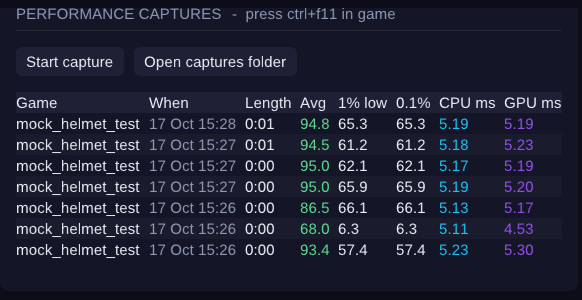
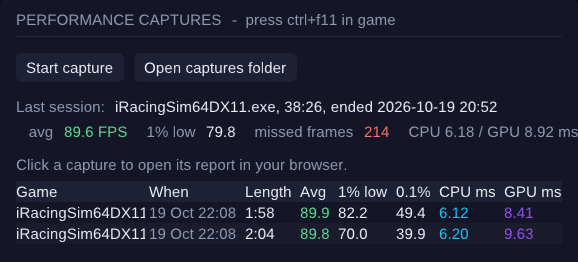
NextLevelXR page and blog: update for 1.4.3
ShenronZero's helmets, Creator Mode for OBS, the smoother FPS panel, lap-long
Auto SS, capture reports, Certum signing and the tested games list. New 1.4.3
screenshots.

Claude-Session: https://claude.ai/code/session_01QvJocGPpfhh6eVveYSqqi1

Changed region(s): [[0.0311, 0.1832, 1.0, 0.916], [0.0311, 0.0305, 0.6851, 0.1221], [0.0311, 0.1832, 0.218, 0.3664]]

diff --git a/nextlevelxr-mod.html b/nextlevelxr-mod.html
@@ -4,20 +4,20 @@
 <script defer src="/cookie-consent.js"></script>
 <meta charset="utf-8">
 <meta name="viewport" content="width=device-width, initial-scale=1">
-<title>NextLevelXR: Standalone OpenXR FOV Crop &amp; Helmet Mod for VR Sim Racing | Next Level Sim Gaming</title>
-<meta name="description" content="NextLevelXR crops the parts of the VR image you never look at and puts the saved GPU power back into sharpness. FOV crop, Auto SS, helmet view, 3D Boost and an FPS panel, no OpenXR Toolkit needed.">
+<title>NextLevelXR 1.4.3: Standalone OpenXR FOV Crop, Helmets &amp; Creator Mode for VR | Next Level Sim Gaming</title>
+<meta name="description" content="NextLevelXR 1.4.3 crops the parts of the VR image you never look at and puts the saved GPU power back into sharpness. ShenronZero's helmets, Creator Mode for OBS, Auto SS and an FPS panel, fully signed, no OpenXR Toolkit needed.">
 <meta name="robots" content="index, follow, max-image-preview:large">
 <link rel="canonical" href="https://nextlevelsimgaming.co.uk/nextlevelxr-mod.html">
 <meta property="og:type" content="article">
 <meta property="og:site_name" content="Next Level Sim Gaming">
 <meta property="og:title" content="NextLevelXR: a standalone OpenXR mod for sharper, faster sim racing in VR">
-<meta property="og:description" content="NextLevelXR crops the parts of the VR image you never look at and puts the saved GPU power back into sharpness. FOV crop, Auto SS, helmet view, 3D Boost and an FPS panel, no OpenXR Toolkit needed.">
+<meta property="og:description" content="NextLevelXR 1.4.3 crops the parts of the VR image you never look at and puts the saved GPU power back into sharpness. ShenronZero's helmets, Creator Mode for OBS, Auto SS and an FPS panel, fully signed, no OpenXR Toolkit needed.">
 <meta property="og:image" content="https://nextlevelsimgaming.co.uk/nextlevelxr-control-app.jpg">
 <meta property="og:url" content="https://nextlevelsimgaming.co.uk/nextlevelxr-mod.html">
 <meta name="twitter:card" content="summary_large_image">
 <meta name="twitter:site" content="@nextlevelsim">
 <meta name="twitter:title" content="NextLevelXR: a standalone OpenXR mod for sharper, faster sim racing in VR">
-<meta name="twitter:description" content="NextLevelXR crops the parts of the VR image you never look at and puts the saved GPU power back into sharpness. FOV crop, Auto SS, helmet view, 3D Boost and an FPS panel, no OpenXR Toolkit needed.">
+<meta name="twitter:description" content="NextLevelXR 1.4.3 crops the parts of the VR image you never look at and puts the saved GPU power back into sharpness. ShenronZero's helmets, Creator Mode for OBS, Auto SS and an FPS panel, fully signed, no OpenXR Toolkit needed.">
 <meta name="twitter:image" content="https://nextlevelsimgaming.co.uk/nextlevelxr-control-app.jpg">
 <link rel="preconnect" href="https://fonts.googleapis.com">
 <link rel="preconnect" href="https://fonts.gstatic.com" crossorigin>
@@ -37,10 +37,10 @@
   {
    "@type": "BlogPosting",
    "headline": "NextLevelXR: a standalone OpenXR mod for sharper, faster sim racing in VR",
-   "description": "NextLevelXR crops the parts of the VR image you never look at and puts the saved GPU power back into sharpness. FOV crop, Auto SS, helmet view, 3D Boost and an FPS panel, no OpenXR Toolkit needed.",
+   "description": "NextLevelXR 1.4.3 crops the parts of the VR image you never look at and puts the saved GPU power back into sharpness. ShenronZero's helmets, Creator Mode for OBS, Auto SS and an FPS panel, fully signed, no OpenXR Toolkit needed.",
    "url": "https://nextlevelsimgaming.co.uk/nextlevelxr-mod.html",
    "datePublished": "2026-10-18",
-   "dateModified": "2026-10-18",
+   "dateModified": "2026-10-20",
    "inLanguage": "en-GB",
    "image": "https://nextlevelsimgaming.co.uk/nextlevelxr-control-app.jpg",
    "author": {"@type": "Person", "name": "Gary Bowman", "url": "https://nextlevelsimgaming.co.uk/"},
@@ -208,16 +208,27 @@ table.spec td{color:var(--paper-dim)}
 
 <main class="wrap">
 <p class="crumb"><a href="/index.html">Home</a> / <a href="/blog.html">Blog</a> / NextLevelXR</p>
-<p class="newbadge">PREVIEW</p><p class="badge">NextLevelXR 1.4.1 · in testing</p>
+<p class="newbadge">NEW IN 1.4.3</p><p class="badge">NextLevelXR 1.4.3 · fully signed</p>
 <h1>NextLevelXR: the VR mod that spends your GPU where you actually look</h1>
-<p class="updated">18 October 2026 · Gary Bowman</p>
-<p class="standfirst">A standalone OpenXR mod from Next Level Sim Gaming and Elhydro. It trims the parts of the VR image you never look at in a cockpit and puts the saved GPU power back into a sharper picture. It doesn't use the OpenXR Toolkit at all, and <a href="#no-openxr-toolkit">replaces it</a>.</p>
+<p class="updated">18 October 2026 · updated 20 October 2026 for 1.4.3 · Gary Bowman</p>
+<p class="standfirst">A standalone OpenXR mod from Next Level Sim Gaming and Elhydro, now with ShenronZero's helmet library. It trims the parts of the VR image you never look at in a cockpit and puts the saved GPU power back into a sharper picture. It doesn't use the OpenXR Toolkit at all, and <a href="#no-openxr-toolkit">replaces it</a>.</p>
 
-<div class="note"><strong>This is a preview post.</strong> NextLevelXR is being tested by the team right now. Downloads, a video and real in-game numbers will follow here when it's ready. Join the <a href="https://discord.gg/gw6xXkWtKa">Discord</a> to hear first.</div>
+<div class="box" id="whats-new">
+<h3>What's new in 1.4.3</h3>
+<ul>
+<li><strong>ShenronZero's helmets:</strong> ten real racing helmets, from open visor to Formula 1, with linings, visor tints, wear, glare, decals and scene lighting. <a href="#helmets">More below</a>.</li>
+<li><strong>Creator Mode for OBS:</strong> sends exactly what you see in the headset to OBS, with the whole helmet and the FPS panel. No mirror window to capture. <a href="#creator-mode">More below</a>.</li>
+<li><strong>A locked 90 with the FPS panel on:</strong> the panel and the settings checks now run off the game's render thread, so they cost the game nothing.</li>
+<li><strong>A better FPS panel:</strong> average FPS and 1% low, compact, standard and full layouts, and more positions.</li>
+<li><strong>Auto SS over a full lap,</strong> and an HTML report for every capture.</li>
+<li><strong>Fully digitally signed with Certum:</strong> the installer, the uninstaller, the mod, the app, the helmet module and every helper.</li>
+</ul>
+<p>Tested by the team in iRacing, Le Mans Ultimate, F1 25, Assetto Corsa EVO, Assetto Corsa, Automobilista 2 and ATS / ETS2. The signed installer comes to the <a href="https://discord.gg/gw6xXkWtKa">Discord</a>'s #downloads channel.</p>
+</div>
 
 <figure class="fig hero">
-<img src="/nextlevelxr-control-app.jpg" width="1272" height="826" alt="NextLevelXR Control app showing the FOV crop sliders, a preview of both eyes and the render size result for a Pimax Dream Air SE" fetchpriority="high" decoding="async">
-<figcaption>NextLevelXR Control: set the crop, see both eyes to scale and the render size it saves.</figcaption>
+<img src="/nextlevelxr-control-app.jpg" width="1272" height="826" alt="NextLevelXR Control 1.4.3 showing the FOV crop settings and the helmet and visor preview for a Pimax Dream Air SE" fetchpriority="high" decoding="async">
+<figcaption>NextLevelXR Control 1.4.3: the crop on the left, and a preview of your helmet and visor on the right.</figcaption>
 </figure>
 
 <div class="box" id="no-openxr-toolkit">
@@ -227,8 +238,8 @@ table.spec td{color:var(--paper-dim)}
 <li><strong>FOV crop:</strong> every edge set on its own, both eyes always identical, plus visor categories by car type and per-edge margins.</li>
 <li><strong>Resolution and supersampling:</strong> the render size is cut to match the crop, sharpness is shown as "centre sharpness", and Auto SS finds what your GPU can hold.</li>
 <li><strong>Sharpening:</strong> Pop adds adaptive sharpening and mid-tone clarity, without halos.</li>
-<li><strong>FPS overlay:</strong> FPS, CPU and GPU frame times in the headset, plus CSV captures.</li>
-<li><strong>New, not in the Toolkit:</strong> a helmet view with real per-eye depth, 3D Boost, and a Windows app to set it all per game.</li>
+<li><strong>FPS panel:</strong> FPS, average FPS, 1% low and CPU and GPU frame times in the headset, plus captures with a report.</li>
+<li><strong>New, not in the Toolkit:</strong> ShenronZero's helmets, Creator Mode for OBS, 3D Boost, and a Windows app to set it all per game.</li>
 </ul>
 <p>NextLevelXR doesn't do upscaling (NIS / FSR), foveated rendering or hand tracking. If you rely on one of those, tell us on the <a href="https://discord.gg/gw6xXkWtKa">Discord</a>. Whatever you use, run only one FOV-cropping tool at a time, or the image gets cropped twice.</p>
 </div>
@@ -244,32 +255,55 @@ table.spec td{color:var(--paper-dim)}
 <li><strong>It shrinks the render size to match.</strong> The game is asked for a smaller image, worked out in the same flat projection it draws, so the frame really gets cheaper rather than just being masked.</li>
 <li><strong>It puts the savings back into sharpness.</strong> Supersampling raises the resolution of what's left. Because the crop keeps the pixels in the middle of your view exactly as dense as native, sharpness is shown as simple "centre sharpness": 0% is native, +10% is sharper.</li>
 </ol>
-<p>On a Pimax Dream Air SE with its example crop, the game renders about 46% fewer pixels before supersampling. With Auto supersampling bringing sharpness back to native, it's still about a third fewer pixels than the headset's native picture. Those are calculator figures; in-game results are coming once testing finishes.</p>
+<p>On a Pimax Dream Air SE with its example crop, the game renders about 47% fewer pixels before supersampling. With supersampling bringing the centre 9% sharper than native, it's still 36% fewer pixels than the headset's native picture. One racer on the Discord saw his GPU load drop from 95–100% to 50–60% after cropping.</p>
 
 <h2>Crop by the car you drive</h2>
-<p>An F1 car and a rally car don't need the same view. NextLevelXR's visor categories set the vertical view for the type of car, from a 25° slot for open-wheelers up to 60° for an open visor, with 45° for touring cars as the default. An offset of up to ±5° slides that window up or down for your seat height without changing the render size.</p>
+<p>An F1 car and a rally car don't need the same view. NextLevelXR's visor categories set the vertical view for the type of car, from a 25° slot for open-wheelers up to 60° for an open visor, with 45° for touring cars as the default. An offset of up to ±5° slides that window up or down for your seat height without changing the render size. With a helmet on, the crop follows the helmet's opening instead.</p>
 <figure class="fig narrow">
-<img src="/nextlevelxr-visor-categories.png" width="398" height="400" alt="NextLevelXR Control crop settings with the Touring Cars visor category, an offset of 1.5 degrees and per-edge margins for the helmet" loading="lazy" decoding="async">
-<figcaption>Fixed window with the 45° Touring Cars category, a +1.5° offset, and margins saved for this helmet so no black shows at the edge.</figcaption>
+<img src="/nextlevelxr-visor-categories.png" width="392" height="395" alt="NextLevelXR Control crop settings with the Touring Cars visor category, an offset of 1.5 degrees and per-edge margins" loading="lazy" decoding="async">
+<figcaption>Fixed window with the 45° Touring Cars category, a +1.5° offset, and a small margin on three edges.</figcaption>
 </figure>
 
 <h2>Auto SS: the most sharpness your GPU can hold</h2>
-<p>The right supersampling level depends on your GPU, the sim, the weather and how many cars are on track. So instead of guessing, NextLevelXR measures. Drive on track, press <strong>Ctrl+F12</strong>, and for ten seconds it times the GPU at your current settings. It then suggests the highest sharpness that fits about 90% of each frame, and one click saves it for that game.</p>
+<p>The right supersampling level depends on your GPU, the sim, the weather and how many cars are on track. So instead of guessing, NextLevelXR measures. Press <strong>Ctrl+F12</strong> as you cross the start/finish line and again a lap later, and it times the GPU over the whole lap at your current settings. It then suggests the highest sharpness that fits about 90% of each frame, and one click saves it for that game. A full lap gives a safer answer than ten seconds on one straight.</p>
 <figure class="fig narrow">
-<img src="/nextlevelxr-auto-ss.png" width="398" height="417" alt="NextLevelXR Control supersampling settings shown as centre sharpness, with an Auto SS suggestion and an Apply button" loading="lazy" decoding="async">
+<img src="/nextlevelxr-auto-ss.png" width="404" height="500" alt="NextLevelXR Control supersampling settings shown as centre sharpness, with a lap-long Auto SS measurement and an Apply button" loading="lazy" decoding="async">
 <figcaption>Supersampling as centre sharpness, and an Auto SS result ready to apply. The numbers shown are example values.</figcaption>
 </figure>
 
-<h2>A helmet that sits on your head</h2>
+<h2 id="helmets">ShenronZero's helmets</h2>
 <figure class="fig">
-<img src="/nextlevelxr-helmet-distance.jpg" width="1400" height="456" alt="Test renders of the NLXR GT helmet as drawn, at 12 cm and at 5 cm from the eyes" loading="lazy" decoding="async">
-<figcaption>Left-eye test renders of the NLXR GT helmet at three distances. Closer, the rim shifts with your eye and softens.</figcaption>
+<img src="/nextlevelxr-helmets.jpg" width="1280" height="720" alt="Illustration of the Rally helmet with a lowered visor around a cockpit view" loading="lazy" decoding="async">
+<figcaption>The Rally helmet with a lowered visor (illustration). The Control app shows a preview of your choice.</figcaption>
 </figure>
-<p>The helmet view draws a racing helmet around your view, separately for each eye so the brow and padding have real depth. In 1.4.1 the helmet becomes a 3D shell you can bring as close as a few centimetres: each eye sees the rim from its own position using your real IPD, and the rim softens as it comes closer, because your eyes never focus on the edge of a real helmet either.</p>
-<p>It also works the other way round. <strong>Fit helmet to crop</strong> sizes the visor opening to your crop, so the helmet hides exactly the pixels that were never rendered. The helmet and the performance saving become the same thing.</p>
+<p>1.4.3 brings ShenronZero's full helmet library into NextLevelXR, replacing the old placeholder helmet. It puts a real racing helmet around your view: the shell, lining and visor are drawn for each eye and lit by the scene, so the helmet sits in the cockpit rather than on top of it.</p>
+<ul>
+<li><strong>Ten helmets</strong>, from an open visor to Formula 1, with lining colours.</li>
+<li><strong>Visors</strong> from clean to strong wear, eight tints and glare. <strong>Ctrl+F5</strong> raises or lowers the visor while you drive.</li>
+<li><strong>Scene lighting and dynamic brightness</strong>, plus head inertia and car response in AC and AC EVO.</li>
+<li><strong>Sponsor decals</strong> across the top of the visor, and decal packs you can import.</li>
+<li><strong>Direct3D 11 and 12</strong> games, including iRacing, AC, AMS2, LMU, ATS and ETS2.</li>
+</ul>
+<p>The helmet is also the crop: with helmets on, NextLevelXR crops to the helmet's opening, so the pixels it hides are never rendered. And when you untick <strong>Show the helmet</strong>, the helmet module isn't loaded at all and costs nothing.</p>
 <figure class="fig narrow">
-<img src="/nextlevelxr-helmet-settings.png" width="398" height="582" alt="NextLevelXR Control helmet settings including style, visor, size, stereo depth, distance, rim blur, comfort and quality" loading="lazy" decoding="async">
-<figcaption>Every helmet setting applies live while you drive, including the new Distance, Rim blur, Comfort and Quality.</figcaption>
+<img src="/nextlevelxr-helmet-settings.png" width="402" height="620" alt="NextLevelXR Control helmet settings by ShenronZero: helmet, lining colour, visor position, condition, tint, glare, brightness and stereo depth" loading="lazy" decoding="async">
+<figcaption>The helmet settings. Brightness, lighting, tint and visor position change live; the helmet, visor wear and decals apply after a game restart.</figcaption>
+</figure>
+
+<h2 id="creator-mode">Creator Mode: record exactly what you see</h2>
+<figure class="fig">
+<img src="/nextlevelxr-creator-mode.jpg" width="1280" height="720" alt="Illustration of the flat, centred picture Creator Mode sends to OBS, with the whole helmet and the FPS panel" loading="lazy" decoding="async">
+<figcaption>What OBS receives (illustration): the game from the middle of your head, the helmet centred, and the FPS panel where it sits in the headset.</figcaption>
+</figure>
+<p>Capturing one eye's view in OBS only ever showed part of the helmet, off to one side. Creator Mode fixes that: it draws a flat, centred 16:9 picture from the middle of your head, with the whole helmet and the FPS panel, and sends it straight to OBS. There's no mirror window on your desktop to capture, and it's off by default.</p>
+<ol class="steps">
+<li><strong>Turn it on.</strong> In NextLevelXR Control, tick <strong>Send what I see to OBS</strong>.</li>
+<li><strong>Add the source in OBS.</strong> Install Jabbah's OpenXR Mirror Capture plugin, add an <strong>OpenXR Mirror Capture</strong> source, and turn off Jabbah's own OpenXR layer.</li>
+<li><strong>Record or stream.</strong> The app shows when OBS is receiving the picture.</li>
+</ol>
+<figure class="fig narrow">
+<img src="/nextlevelxr-creator-settings.png" width="402" height="290" alt="NextLevelXR Control Creator Mode settings: send what I see to OBS, picture size, field of view, smoothing and eye" loading="lazy" decoding="async">
+<figcaption>Picture size from 720p to 4K, 60–120° wide, and optional smoothing for viewers. Direct3D 11 games for now.</figcaption>
 </figure>
 
 <h2>3D Boost and Pop</h2>
@@ -280,31 +314,37 @@ table.spec td{color:var(--paper-dim)}
 <p><strong>3D Boost</strong> renders the game with your eyes slightly further apart, so the cockpit and track stand out in stronger 3D. It costs nothing, and the headset still gets your real eye positions. <strong>Pop</strong> adds adaptive sharpening and mid-tone clarity without halos, and switches itself completely off when you don't use it.</p>
 
 <h2>See what it's doing</h2>
-<p>A transparent panel in the headset shows FPS and CPU and GPU frame times (<strong>Ctrl+F10</strong>), and <strong>Ctrl+F11</strong> records every frame to a CSV so you can compare settings lap for lap.</p>
+<p>A transparent panel in the headset shows FPS, average FPS and CPU and GPU frame times (<strong>Ctrl+F10</strong>). <strong>Ctrl+Shift+F10</strong> switches between compact, standard and full layouts; the full one adds the 1% low, a live frame-time graph, missed frames, CPU and GPU usage and graphics memory. In 1.4.3 the panel runs off the game's render thread, so a 90 Hz headset holds 90 with it on.</p>
 <figure class="fig mid">
-<img src="/nextlevelxr-fps-panel.png" width="640" height="176" alt="NextLevelXR FPS panel showing 92 FPS, CPU 5.2 ms and GPU 5.1 ms with a recording indicator, floating over a sim" loading="lazy" decoding="async">
-<figcaption>The FPS panel in the headset: numbers only, no background. The red dot shows a capture is recording.</figcaption>
+<img src="/nextlevelxr-fps-panel.png" width="640" height="176" alt="NextLevelXR FPS panel showing 90 FPS, CPU 6.2 ms, GPU 8.9 ms and an average of 89.6 FPS, with a recording indicator" loading="lazy" decoding="async">
+<figcaption>The standard FPS panel: numbers only, no background. The red dot shows a capture is recording.</figcaption>
 </figure>
+<p><strong>Ctrl+F11</strong> records every frame to a capture. Click it in the app and an HTML report opens with charts of every frame, the stutters and the lows, so you can compare settings lap for lap.</p>
 <figure class="fig mid">
-<img src="/nextlevelxr-captures.png" width="582" height="300" alt="NextLevelXR Control performance captures table with average FPS, 1% and 0.1% lows and CPU and GPU times" loading="lazy" decoding="async">
-<figcaption>Captures are listed in the Control app with average FPS, lows and CPU and GPU times. These rows come from the test rig.</figcaption>
+<img src="/nextlevelxr-captures.png" width="578" height="262" alt="NextLevelXR Control performance captures with average FPS, 1% and 0.1% lows and CPU and GPU times" loading="lazy" decoding="async">
+<figcaption>Last session and the captures list in the Control app. These rows come from the test rig.</figcaption>
 </figure>
 
 <div class="box">
 <h3>Which sims?</h3>
-<p>Native OpenXR sims such as iRacing, Assetto Corsa EVO and Le Mans Ultimate, plus ATS and ETS2 with the -openxr launch option. Assetto Corsa and AMS2 work through OpenComposite. The helmet, Pop and the FPS panel work in Direct3D 11 and 12 games.</p>
+<p>The team has tested 1.4.3 in iRacing, Le Mans Ultimate, F1 25, Assetto Corsa EVO, Assetto Corsa, Automobilista 2 and American and Euro Truck Simulator 2, so compatibility is no longer a concern. Native OpenXR sims work as they are; ATS and ETS2 need the -openxr launch option, and Assetto Corsa and AMS2 run through OpenComposite. The crop, helmets, Pop and the FPS panel work in Direct3D 11 and 12 games. Creator Mode works in Direct3D 11 games for now.</p>
 </div>
 
-<h2>What's next</h2>
-<p>NextLevelXR 1.4.1 is with the team for testing now: real headsets, real sims, before-and-after captures. When it's ready this post will get the download, the full user guide, a video and the numbers from those captures.</p>
+<div class="box">
+<h3>Fully digitally signed with Certum</h3>
+<p>Every file is signed with a Certum code-signing certificate and timestamped: the installer, the uninstaller, the NextLevelXR layer, the Control app, ShenronZero's helmet module and the helpers. Windows shows the publisher as Gary Bowman, and right-click &gt; Properties &gt; Digital Signatures lets anyone check. Any change to a signed file breaks its signature, so a tampered copy is easy to spot.</p>
+</div>
+
+<h2>Get it</h2>
+<p>The signed NextLevelXR 1.4.3 installer and its 23-page PDF user guide come to the #downloads channel on the Next Level Sim Gaming Discord, where the developers answer questions in #support. Installing over 1.4.2 keeps your settings.</p>
 <div class="btn-row">
-<a class="btn" href="https://discord.gg/gw6xXkWtKa">Join the Discord for updates</a>
+<a class="btn" href="https://discord.gg/gw6xXkWtKa">Join the Discord</a>
 <a class="btn ghost" href="https://www.youtube.com/@nextlevelsimgaming">Watch on YouTube</a>
 </div>
 
 <p class="aside">Looking for the Elhydro Custom FOV &amp; Helmet Mod? It has <a href="/elhydro-custom-fov-helmet-mod.html">its own page</a>. NextLevelXR is a separate, standalone mod.</p>
 
-<p class="disclosure">NextLevelXR and NextLevelXR Control. Copyright © 2026 Next Level Sim Gaming, Elhydro, ShenronZero and pspsps195. All rights reserved. Developed by Next Level Sim Gaming and Elhydro; FOV crop, supersampling and helmet design in collaboration with Elhydro. Contributors: ShenronZero (development support and testing) and pspsps195 (helmets, testing and release checks). NextLevelXR is free software, provided "as is", without warranty of any kind. Only use one FOV-cropping tool at a time, and check your sim's rules on VR tools before racing online.</p>
+<p class="disclosure">NextLevelXR and NextLevelXR Control. Copyright © 2026 Next Level Sim Gaming, Elhydro, ShenronZero and pspsps195. All rights reserved. Developed by Next Level Sim Gaming and Elhydro; FOV crop, supersampling and helmet design in collaboration with Elhydro. Helmet library by ShenronZero. Contributors: ShenronZero (development support and testing) and pspsps195 (helmets, testing and release checks). Creator Mode works with Jabbah's OpenXR Mirror Capture OBS plugin. NextLevelXR is free software, provided "as is", without warranty of any kind. Only use one FOV-cropping tool at a time, and check your sim's rules on VR tools before racing online.</p>
 </main>
 
 <footer>

diff --git a/blog.html b/blog.html
@@ -60,6 +60,7 @@
      "headline": "NextLevelXR: the VR mod that spends your GPU where you actually look",
      "url": "https://nextlevelsimgaming.co.uk/nextlevelxr-mod.html",
      "datePublished": "2026-10-18",
+     "dateModified": "2026-10-20",
      "author": {
       "@type": "Person",
       "name": "Gary Bowman",
@@ -247,12 +248,12 @@ table.spec td{color:var(--paper-dim)}
 
 <ul class="post-list">
 <li>
-<a href="/nextlevelxr-mod.html"><img src="/nextlevelxr-card.jpg" width="1200" height="515" alt="NextLevelXR Control app" decoding="async"></a>
+<a href="/nextlevelxr-mod.html"><img src="/nextlevelxr-card.jpg" width="1200" height="515" alt="NextLevelXR Control 1.4.3 with the helmet and visor preview" decoding="async"></a>
 <div class="pbody">
-<p class="meta">18 OCTOBER 2026 · NEXTLEVELXR · PREVIEW</p>
+<p class="meta">UPDATED 20 OCTOBER 2026 · NEXTLEVELXR 1.4.3</p>
 <h2><a href="/nextlevelxr-mod.html">NextLevelXR: the VR mod that spends your GPU where you actually look</a></h2>
-<p>A standalone OpenXR mod from Next Level Sim Gaming and Elhydro: FOV crop by car type, Auto SS, a helmet that sits on your head, 3D Boost and an FPS panel. Now in testing.</p>
-<p><a href="/nextlevelxr-mod.html">Read the preview &rarr;</a></p>
+<p>NextLevelXR 1.4.3: the standalone OpenXR mod from Next Level Sim Gaming and Elhydro now has ShenronZero's ten-helmet library, Creator Mode for OBS and a smoother FPS panel. No OpenXR Toolkit, big performance gains, fully signed with Certum, and tested in iRacing, LMU, F1 25 and more.</p>
+<p><a href="/nextlevelxr-mod.html">See what's new in 1.4.3 &rarr;</a></p>
 </div>
 </li>
 <li>
